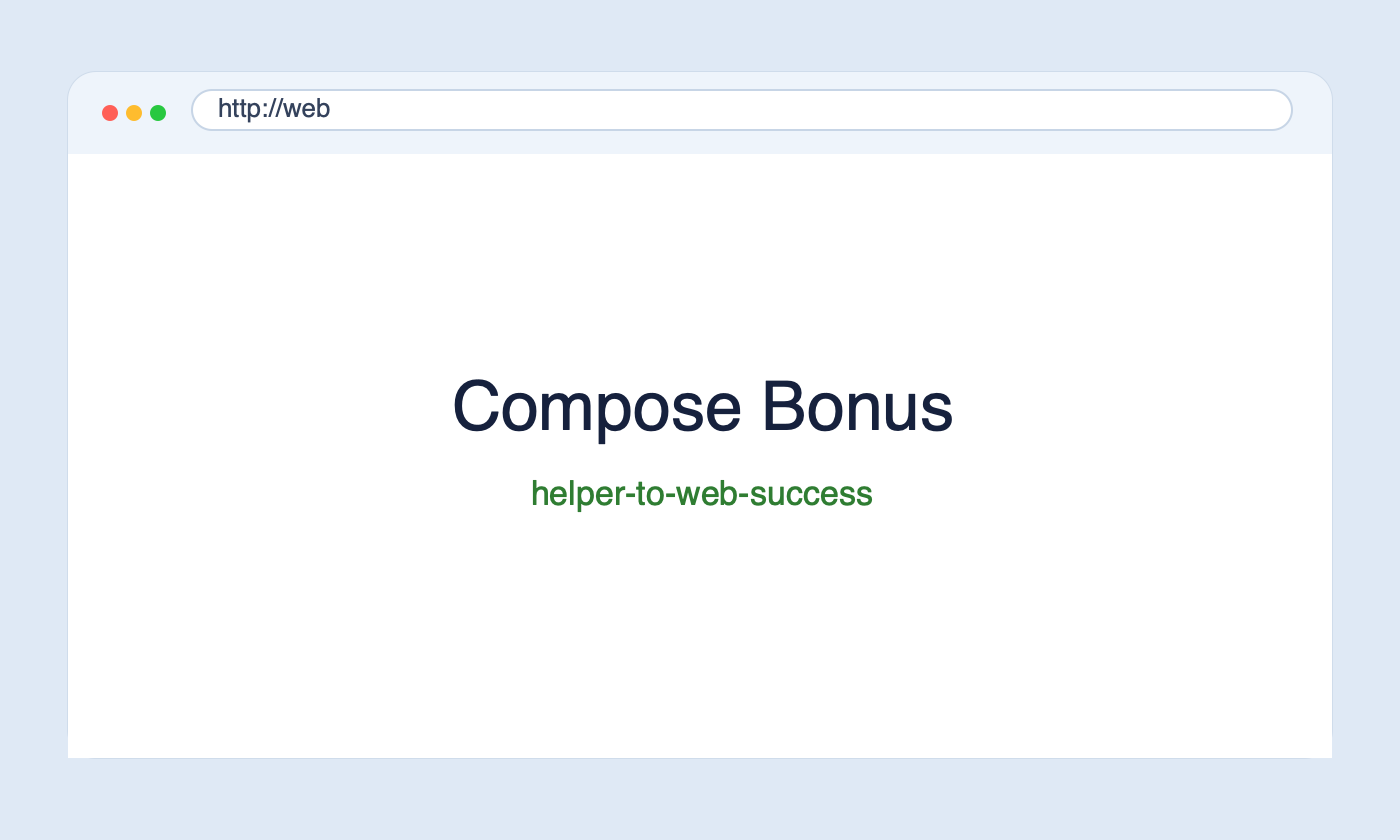
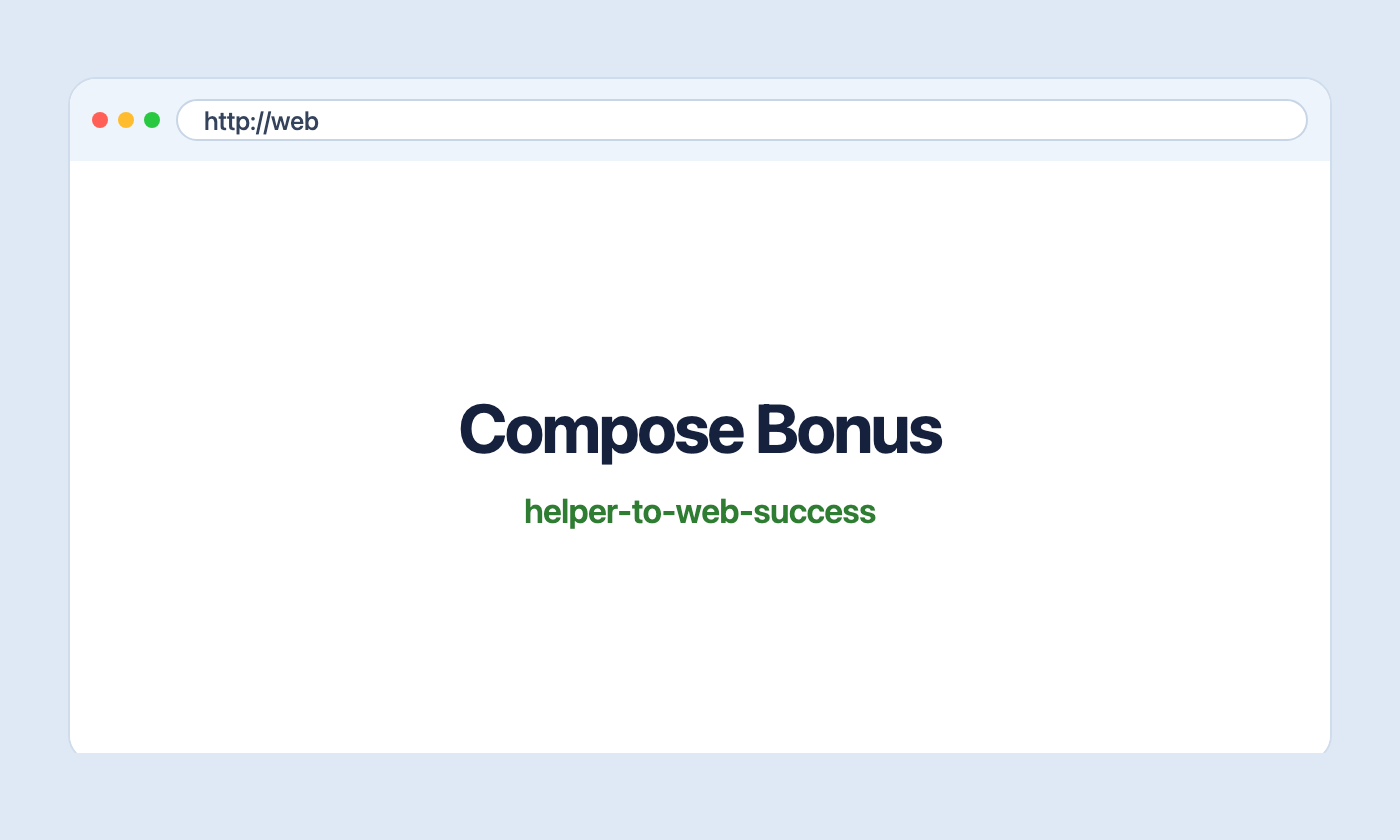
docs: Docker Compose 보너스 과제 섹션 업데이트 및 스크린샷 증거 추가

diff --git a/docs/assets/bonus-compose-helper-output.html b/docs/assets/bonus-compose-helper-output.html
@@ -1,0 +1,136 @@
+<!doctype html>
+<html lang="ko">
+<head>
+  <meta charset="utf-8">
+  <meta name="viewport" content="width=device-width, initial-scale=1">
+  <title>Compose Helper Output</title>
+  <style>
+    :root {
+      --bg: #dfe9f5;
+      --window: #ffffff;
+      --topbar: #eef4fb;
+      --stroke: #cfdceb;
+      --text: #16213d;
+      --muted: #34425c;
+      --success: #2f7d32;
+    }
+
+    * {
+      box-sizing: border-box;
+    }
+
+    html, body {
+      width: 100%;
+      height: 100%;
+      margin: 0;
+      font-family: -apple-system, BlinkMacSystemFont, "Segoe UI", Helvetica, Arial, sans-serif;
+      background: var(--bg);
+    }
+
+    .stage {
+      width: 1400px;
+      height: 840px;
+      margin: 0 auto;
+      display: flex;
+      align-items: center;
+      justify-content: center;
+      background: var(--bg);
+    }
+
+    .window {
+      width: 1264px;
+      height: 686px;
+      background: var(--window);
+      border: 2px solid var(--stroke);
+      border-radius: 28px;
+      overflow: hidden;
+      box-shadow: 0 1px 0 rgba(255, 255, 255, 0.6) inset;
+    }
+
+    .topbar {
+      height: 82px;
+      padding: 18px 22px;
+      background: var(--topbar);
+      display: flex;
+      align-items: center;
+      gap: 16px;
+    }
+
+    .controls {
+      display: flex;
+      gap: 10px;
+      flex: 0 0 auto;
+    }
+
+    .dot {
+      width: 16px;
+      height: 16px;
+      border-radius: 50%;
+    }
+
+    .dot.red { background: #ff5f57; }
+    .dot.yellow { background: #febc2e; }
+    .dot.green { background: #28c840; }
+
+    .address {
+      flex: 1;
+      height: 42px;
+      border-radius: 21px;
+      border: 2px solid #c7d5e6;
+      background: #ffffff;
+      color: var(--muted);
+      display: flex;
+      align-items: center;
+      padding: 0 26px;
+      font-size: 26px;
+      font-weight: 500;
+      letter-spacing: -0.01em;
+    }
+
+    .page {
+      height: calc(100% - 82px);
+      display: flex;
+      align-items: center;
+      justify-content: center;
+      flex-direction: column;
+      gap: 26px;
+      background: #ffffff;
+    }
+
+    h1 {
+      margin: 0;
+      color: var(--text);
+      font-size: 68px;
+      font-weight: 700;
+      letter-spacing: -0.03em;
+      line-height: 1.05;
+    }
+
+    .success {
+      margin: 0;
+      color: var(--success);
+      font-size: 34px;
+      font-weight: 600;
+      letter-spacing: -0.02em;
+    }
+  </style>
+</head>
+<body>
+  <div class="stage">
+    <div class="window">
+      <div class="topbar">
+        <div class="controls">
+          <span class="dot red"></span>
+          <span class="dot yellow"></span>
+          <span class="dot green"></span>
+        </div>
+        <div class="address">http://web</div>
+      </div>
+      <div class="page">
+        <h1>Compose Bonus</h1>
+        <p class="success">helper-to-web-success</p>
+      </div>
+    </div>
+  </div>
+</body>
+</html>

diff --git a/README.md b/README.md
@@ -766,165 +766,74 @@ Github 연동 증거:
 - 배운 점:
   원격 저장소 주소가 연결되어 있다고 해서 인증까지 끝난 것은 아니다. 특히 HTTPS 방식은 GitHub 로그인 또는 토큰 저장이 완료되어야 push 가 가능하다. 이후 같은 문제가 반복되면 SSH 키를 등록해 `git@github.com:...` 형식으로 바꾸는 것도 좋은 대안이다.
 
-## 12. 보너스 1. Docker Compose 기본 사용
+## 12. 보너스 1. Docker Compose 기초, 멀티 컨테이너, 운영 명령, 환경 변수 활용
 
-핵심 메시지:
+이 섹션에서는 `docker-compose.yml`을 사용하여 복잡한 컨테이너 관리 루틴을 선언적으로 구축하고 자동화하는 과정을 실증합니다.
 
-- Compose 파일은 실행 설정을 문서화한다.
-- `up / down / ps / logs` 로 기본 운영 루틴을 만든다.
-- 서비스 이름 `web` 으로 컨테이너 간 통신이 된다.
-- `.env` 로 포트와 모드를 바꿔 설정과 코드를 분리할 수 있다.
+### 12-1. Docker Compose 기초
+- **목표**: `docker-compose.yml`의 기본 구조를 학습하고, 단일 서비스를 Compose로 실행합니다.
+- **실행 및 검증**:
+  ```bash
+  $ cd bonus/compose
+  $ docker compose up -d web
+  ```
+  `docker compose up -d web` 명령으로 `docker-compose.yml`에 정의된 `web` 단일 컨테이너(nginx)를 백그라운드에서 실행했습니다. 브라우저에서 `localhost:8082`로 접속하여 `<h1>Compose Bonus</h1>` 응답이 반환됨을 확인했습니다.
+- **배움 포인트**: 이미지, 포트 매핑, 볼륨 마운트, 환경 변수 등 컨테이너 실행에 필요한 방대한 옵션을 `docker-compose.yml` 하나의 파일로 기록했습니다. 이를 통해 터미널에서 실행될 명령어의 길이와 복잡도는 줄어들며, 언제 누가 실행하더라도 **"문서화된 실행 설정"** 덕분에 완벽하게 동일한 실행 환경을 재현하게 됩니다.
 
-### 12-1. 파일 준비
+브라우저 접속 증거:
 
-`site/index.html`
+![Compose 단일 서비스 확인](docs/assets/compose-bonus.png)
 
-```html
-<h1>Compose Bonus</h1>
-```
+### 12-2. Docker Compose 멀티 컨테이너 (네트워크/서비스 디스커버리)
+- **목표**: 웹 서버와 보조 서비스 컨테이너를 함께 실행해, 내부 네트워크 통신을 확인합니다.
+- **실행 및 검증**:
+  ```bash
+  $ docker compose up -d
+  $ docker compose exec -T helper sh -lc 'wget -qO- http://web'
+  <h1>Compose Bonus</h1>
+  ```
+  `up -d`를 통해 `web`과 `helper` 서비스 2개를 동시에 구동했습니다. 이후 `helper` 컨테이너 내부에서 임의의 IP 주소 대신 `http://web`이라는 "서비스 이름"만으로 요청을 보냈고, 성공적으로 웹 페이지 응답을 받아왔습니다.
+- **배움 포인트**: 복수의 컨테이너를 Compose로 함께 띄우면, 자동으로 디폴트 네트워크가 형성되어 컨테이너들을 묶습니다. IP 주소가 계속 바뀌는 환경이라도, 각 컨테이너는 Docker 내장 DNS를 통해 서비스 이름(`web`)으로 서로의 주소를 알아내어(서비스 디스커버리) 안정적인 네트워크 통신을 유지합니다.
 
-`.env`
+터미널 통신 증거:
 
-```env
-WEB_PORT=8082
-APP_MODE=dev
-```
+![helper에서 web으로의 통신 확인](docs/assets/compose-multi-comm.png)
 
-`docker-compose.yml`
+### 12-3. Compose 운영 명령어 습득
+- **목표**: `up, down, ps, logs`를 사용해 상태 확인 루틴을 확립합니다.
+- **실행 및 검증**:
+  ```bash
+  $ docker compose ps
+  NAME               SERVICE   STATUS                  PORTS
+  compose-helper-1   helper    Up Less than a second
+  compose-web-1      web       Up Less than a second   0.0.0.0:8082->80/tcp
+  
+  $ docker compose logs web
+  # NGINX 구동 및 접속 로그가 출력됨
+  
+  $ docker compose down
+  # 일괄 중지 및 네트워크 정리됨
+  ```
+- **배움 포인트**: Compose는 `up`, `down`, `ps`, `logs`와 같은 단순화된 운영 명령을 통해 하나의 통합 환경(Project) 안에서 실행/종료/상태/로그 조회를 일괄 통제합니다. 이는 장애 시 전체 복구와 로그 분석을 빠르게 만들어 운영 관점의 확실한 "상태 확인 루틴"으로 기능합니다.
 
-```yaml
-services:
-  web:
-    image: nginx:alpine
-    ports:
-      - "${WEB_PORT}:80"
-    volumes:
-      - ./site:/usr/share/nginx/html:ro
-    environment:
-      APP_MODE: ${APP_MODE}
+### 12-4. 환경 변수 활용 (설정과 코드의 분리)
+- **목표**: 환경 변수를 외부에서 주입 받아 포트와 모드를 변경합니다.
+- **실행 및 검증**:
+  `.env` 파일 내용 변경 전: `WEB_PORT=8082`, `APP_MODE=dev`
+  `.env` 파일 내용 변경 후: `WEB_PORT=8083`, `APP_MODE=prod`
+  ```bash
+  $ docker compose up -d
+  # ps 명령어로 호스트의 8083 포트로 매핑이 전환된 것을 확인
 
-  helper:
-    image: busybox:1.36
-    command: sh -c "while true; do echo helper-alive; sleep 30; done"
-```
+  $ docker compose exec -T web printenv APP_MODE
+  prod
+  ```
+- **배움 포인트**: Compose 서비스 설정에 `${APP_MODE}` 등 환경 변수 참조를 구성해 두면, 실제 컨테이너 구동 규칙이나 Dockerfile 수정 없이 `.env` 파일의 내용 변경만으로 실행 환경(개발 vs 상용)을 동적으로 제어할 수 있습니다. 이는 "설정과 소스 코드의 독립적인 분리"라는 중요한 12-Factor App 원칙을 충족시킵니다.
 
-### 12-2. 단일 서비스 실행
+환경 변수 적용 증거:
 
-```bash
-$ cd /Users/10hour0574/dev-workstation-setup/bonus/compose
+![APP_MODE 환경변수 확인](docs/assets/compose-env-check.png)
 
-$ docker compose up -d web
- Network compose_default  Created
- Container compose-web-1  Created
- Container compose-web-1  Started
-
-$ docker compose ps
-NAME            IMAGE          COMMAND                  SERVICE   CREATED                  STATUS                  PORTS
-compose-web-1   nginx:alpine   "/docker-entrypoint.…"   web       Less than a second ago   Up Less than a second   0.0.0.0:8082->80/tcp, [::]:8082->80/tcp
-
-$ docker compose logs web
-web-1  | /docker-entrypoint.sh: Configuration complete; ready for start up
-web-1  | 2026/04/02 21:18:54 [notice] 1#1: nginx/1.29.7
-web-1  | 2026/04/02 21:18:54 [notice] 1#1: start worker process 35
-
-$ curl -s http://localhost:8082
-<h1>Compose Bonus</h1>
-
-$ docker compose down
- Container compose-web-1  Removed
- Network compose_default  Removed
-```
-
-명령 목적:
-
-- `up`: 실행
-- `ps`: 상태/포트 확인
-- `logs`: 서비스 로그 확인
-- `curl`: 웹 응답 확인
-- `down`: 정리
-
-![Compose 8082 브라우저 접속 증거](./docs/assets/bonus-compose-browser-8082.png)
-
-### 12-3. 멀티 컨테이너 실행
-
-```bash
-$ docker compose up -d
- Network compose_default  Created
- Container compose-web-1  Started
- Container compose-helper-1  Started
-
-$ docker compose exec -T helper sh -lc 'wget -qO- http://web && echo helper-to-web-success'
-<h1>Compose Bonus</h1>
-helper-to-web-success
-
-$ docker compose exec -T web printenv APP_MODE
-dev
-
-$ docker compose down
- Container compose-helper-1  Removed
- Container compose-web-1  Removed
- Network compose_default  Removed
-```
-
-명령 목적:
-
-- `up`: `web`, `helper` 실행
-- `exec helper`: `helper -> web` 통신 확인
-- `exec web`: `APP_MODE=dev` 확인
-- `down`: 정리
-
-![Compose 8082 브라우저, 통신, APP_MODE=dev 증거](./docs/assets/bonus-compose-browser-8082-dev.png)
-
-![Compose helper 출력 증거](./docs/assets/bonus-compose-helper-output.png)
-
-### 12-4. 환경 변수 변경
-
-변경한 `.env`
-
-```env
-WEB_PORT=8083
-APP_MODE=prod
-```
-
-```bash
-$ docker compose up -d
- Network compose_default  Created
- Container compose-helper-1  Started
- Container compose-web-1  Started
-
-$ docker compose ps
-NAME               IMAGE          COMMAND                  SERVICE   CREATED                  STATUS                  PORTS
-compose-helper-1   busybox:1.36   "sh -c 'while true; …"   helper    Less than a second ago   Up Less than a second   
-compose-web-1      nginx:alpine   "/docker-entrypoint.…"   web       Less than a second ago   Up Less than a second   0.0.0.0:8083->80/tcp, [::]:8083->80/tcp
-
-$ curl -s http://localhost:8083
-<h1>Compose Bonus</h1>
-
-$ docker compose exec -T web printenv APP_MODE
-prod
-
-$ docker compose down
- Container compose-helper-1  Removed
- Container compose-web-1  Removed
- Network compose_default  Removed
-```
-
-명령 목적:
-
-- `.env`: 포트/모드 변경
-- `up`: 변경된 설정으로 실행
-- `ps`: 바뀐 포트 확인
-- `curl`: 새 포트 응답 확인
-- `exec web`: `APP_MODE=prod` 확인
-- `down`: 정리
-
-![Compose 8083 브라우저, 통신, APP_MODE=prod 증거](./docs/assets/bonus-compose-browser-8083.png)
-
-요약: Docker Compose를 사용하면 웹 서비스 실행 설정과 운영 명령을 한 파일로 문서화해 재현성과 관리성을 높일 수 있고, `up / ps / logs / down` 운영 흐름과 서비스 간 통신, 환경변수 변경까지 같은 방식으로 반복 검증할 수 있다.
-또한 `APP_MODE=dev`, `APP_MODE=prod` 값이 `printenv APP_MODE` 로 실제 컨테이너 내부에서 확인된 것은, `.env` 에 적은 설정값이 서비스 실행환경에 실제로 전달된다는 의미다.
-
-일반 `docker` 명령은 `docker run -p ... -v ... -e ...` 처럼 컨테이너별 실행 옵션을 한 번씩 직접 적어야 하지만, `docker compose` 는 이런 설정을 `docker-compose.yml` 에 모아 두고 `up / down` 으로 함께 관리할 수 있다는 차이가 있다.
-즉 단일 컨테이너를 빠르게 띄울 때는 일반 `docker` 가 단순하고, 여러 서비스와 포트, 볼륨, 환경변수를 반복해서 같은 방식으로 실행할 때는 `docker compose` 가 더 적합하다.
 
 ## 13. GitHub SSH 키 생성 및 SSH 원격 전환
 
